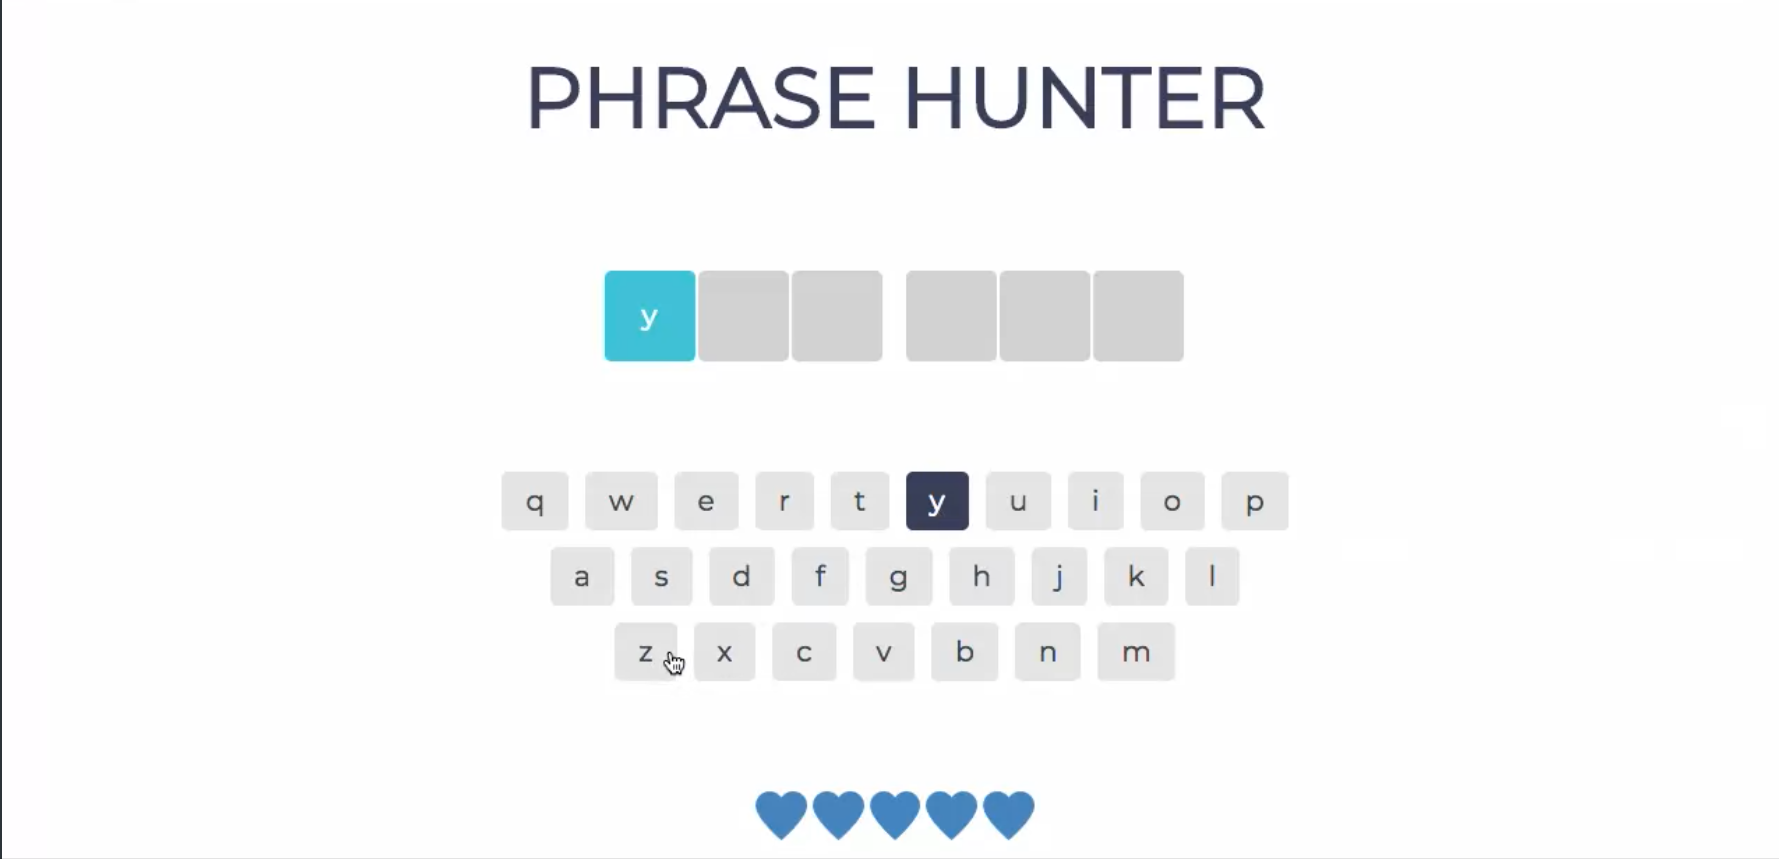
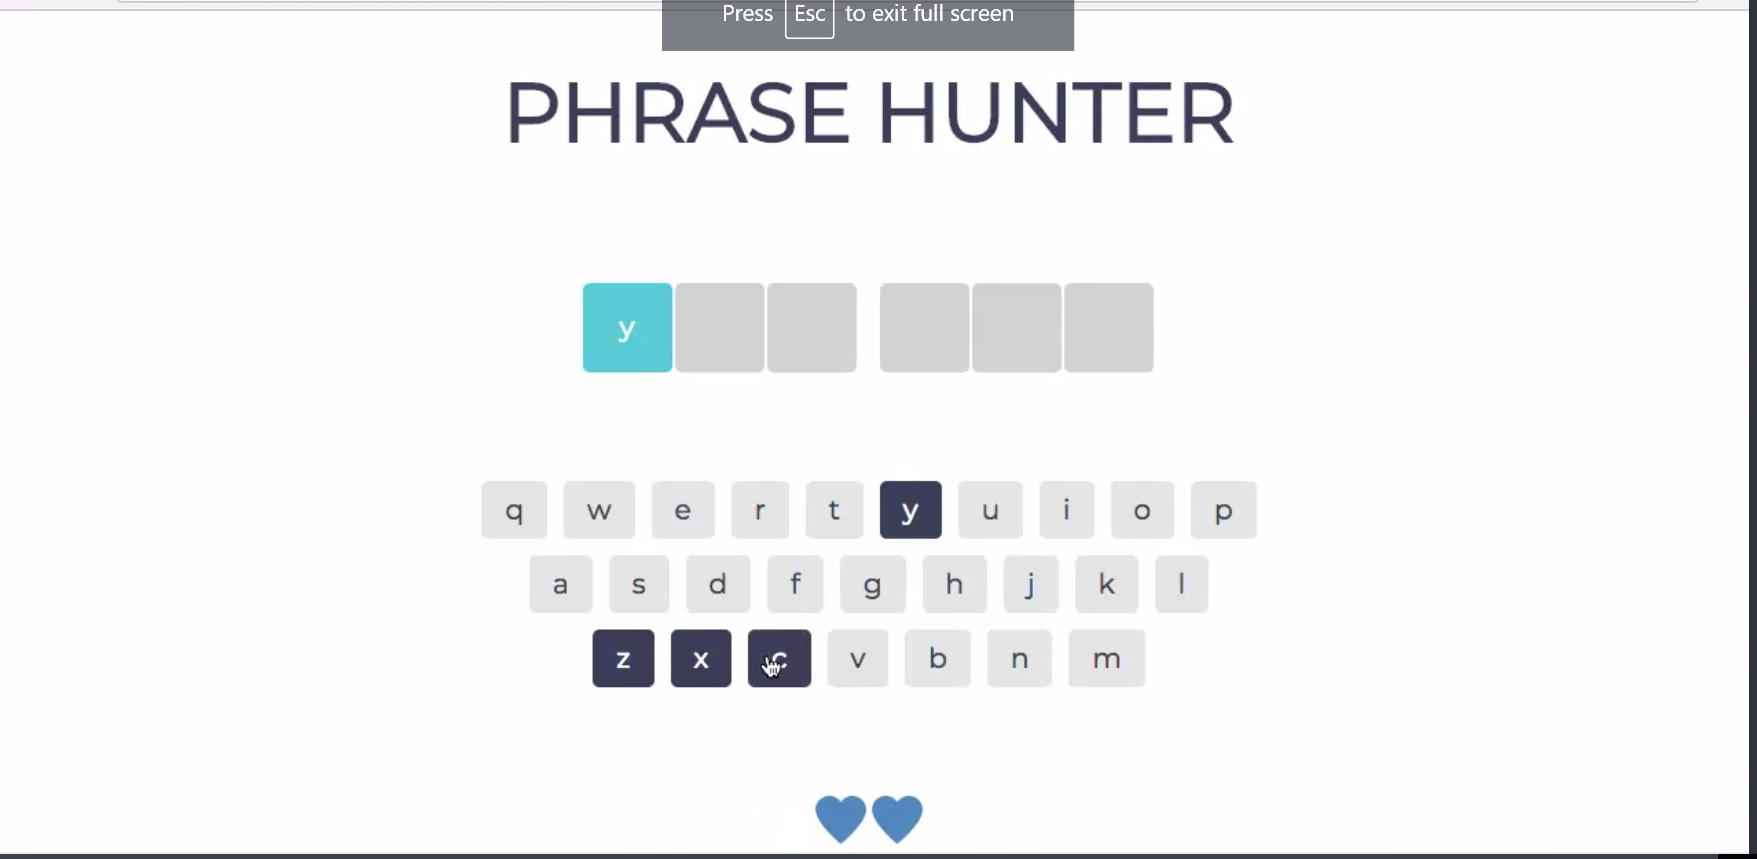
Completed Game.js and app.js.  Some refactoring.

diff --git a/js/Game.js b/js/Game.js
@@ -1,3 +1,86 @@
-/* Treehouse FSJS Techdegree
- * Project 4 - OOP Game App
- * Game.js */
+// The class should include a constructor that initializes the following properties:
+class Game {
+    constructor() {
+        // missed: used to track the number of missed guesses by the player. The initial value is 0, since no guesses have been made at the start of the game.
+        this.missed = 0;
+        // phrases: an array of five Phrase objects to use with the game. A phrase should only include letters and spaces— no numbers, punctuation or other special characters.
+        this.phrases = ['how are you', 'what is that'];
+        // activePhrase: This is the Phrase object that’s currently in play. The initial value is null. Within the startGame() method, this property will be set to the Phrase object returned from a call to the getRandomPhrase() method.
+        this.activePhrase = null;
+    }
+
+    // startGame(): hides the start screen overlay, calls the getRandomPhrase() method, and sets the activePhrase property with the chosen phrase. It also adds that phrase to the board by calling the addPhraseToDisplay() method on the active Phrase object.
+    startGame() {
+        document.querySelector('#overlay').classList.add('hide');
+        this.activePhrase = new Phrase(this.getRandomPhrase());
+        this.activePhrase.addPhraseToDisplay();
+    }
+
+    // getRandomPhrase(): this method randomly retrieves one of the phrases stored in the phrases array and returns it.
+    getRandomPhrase() {
+        const randNum = Math.floor(Math.random() * this.phrases.length);
+        return this.phrases[randNum];
+    }
+
+    // handleInteraction(): this method controls most of the game logic. It checks to see if the button clicked by the player matches a letter in the phrase, and then directs the game based on a correct or incorrect guess. This method should:
+    handleInteraction(selectedKey) {
+        // Placeholder for selected letter
+        // const selectedKey = document.querySelectorAll('.key')[8];
+
+        // If the phrase includes the guessed letter, add the chosen CSS class to the selected letter's keyboard button, call the showMatchedLetter() method on the phrase, and then call the checkForWin() method. If the player has won the game, also call the gameOver() method.
+        if (this.activePhrase.checkLetter(selectedKey.textContent).length) {
+            console.log('match');
+            // Disable the selected letter’s onscreen keyboard button.
+            selectedKey.classList.add('chosen');
+            this.activePhrase.showMatchedLetter(selectedKey.textContent);
+            // Call gameOver() with a true parameter if checkForWin() returns true
+            if (this.checkForWin()) this.gameOver(true);
+            
+        // If the phrase does not include the guessed letter, add the wrong CSS class to the selected letter's keyboard button and call the removeLife() method.
+        } else {
+            console.log('no match');
+            selectedKey.classList.add('wrong');
+            this.removeLife();
+        }
+    }
+    
+    // removeLife(): this method removes a life from the scoreboard, by replacing one of the liveHeart.png images with a lostHeart.png image (found in the images folder) and increments the missed property. If the player has five missed guesses (i.e they're out of lives), then end the game by calling the gameOver() method.
+    removeLife() {
+        // Heart DOM images
+        const selectHearts = document.querySelectorAll('.tries');
+        // Last DOM heart
+        const selectedHeart = selectHearts[selectHearts.length - 1];
+
+        // Remove tries class from last heart
+        selectedHeart.classList.remove('tries');
+        // Increment missed by 1
+        this.missed++;
+        // Replace last heart image with lost heart image
+        selectedHeart.firstChild.src = 'images/lostHeart.png';
+
+        // Check for if out of lives
+        if (this.missed === 5) this.gameOver(false);
+    }
+
+    // checkForWin(): this method checks to see if the player has revealed all of the letters in the active phrase.
+    checkForWin() {
+        // Filter out all shown letters
+        const selectHiddenLetters = Array.from(this.activePhrase.lettersDOM).filter(match => !match.classList.contains('show'));
+        
+        // Return true if there are no remaining hidden letters, otherwise return false
+        return (!selectHiddenLetters.length) ? true : false;
+    }
+
+    // gameOver(): this method displays the original start screen overlay, and depending on the outcome of the game, updates the overlay h1 element with a friendly win or loss message, and replaces the overlay’s start CSS class with either the win or lose CSS class.
+    gameOver(bool) {
+        // Show overlay
+        document.querySelector('#overlay').classList.remove('hide');
+
+        // Gameover DOM element
+        const selectH1 = document.querySelector('#game-over-message');
+
+        // Update the end game screen with the appropriate win/loss message
+        (bool) ? selectH1.textContent = 'YOU WIN!': selectH1.textContent = 'YOU LOSE.  Please try again.';
+    }
+}
+

diff --git a/js/Phrase.js b/js/Phrase.js
@@ -15,7 +15,8 @@
             // Create a list element
             const li = document.createElement('li');
             // Give space and non-space characters appropriate classes
-            (char === ' ') ? li.classList.add('space') : li.classList.add('hide', 'letter', char);
+            // (char === ' ') ? li.classList.add('space') : li.classList.add('hide', 'letter', char);
+            (char === ' ') ? li.classList.add('space') : li.classList.add('letter', char);
             // This should be refactored out to prevent cheating
             li.textContent = char;
             // Append to DOM phrase
@@ -24,21 +25,22 @@
     }
 
     // Checks if chosen letter is in the phrase
-    checkletter() {
+    checkLetter(targetLetter) {
         // PLACEHOLDER: Selected letter
-        const selectedLetter = 'o';
+        // const selectedLetter = 'o';
 
         // Array.from() learned from https://developer.mozilla.org/en-US/docs/Web/JavaScript/Reference/Global_Objects/Array/from
         // Discovered by: https://stackoverflow.com/questions/32765157/filter-or-map-nodelists-in-es6
         // Returns matches
-        return Array.from(this.lettersDOM).filter(match => match.textContent === selectedLetter);
+        // return Array.from(this.lettersDOM).filter(match => match.textContent === selectedLetter);
+        return Array.from(this.lettersDOM).filter(match => match.textContent === targetLetter);
     }
         
     // Reveals matched letter(s) on the board
-    showMatchedLetter() {
+    showMatchedLetter(targetLetter) {
         // Go through matching letters then swap hide class with show
-        this.checkletter().forEach(letter => {
-            letter.classList.remove('hide');
+        this.checkLetter(targetLetter).forEach(letter => {
+            // letter.classList.remove('hide');
             letter.classList.add('show');
         });
     }

diff --git a/js/app.js b/js/app.js
@@ -1,7 +1,12 @@
-/* Treehouse FSJS Techdegree
- * Project 4 - OOP Game App
- * app.js */
+//  Create a new instance of the Game class and add event listeners for the start button and onscreen keyboard buttons:
+const game = new Game();
 
- const phrase = new Phrase('how are YOU');
+    // Add a click event listener to the "Start Game" button which creates a new Game object and starts the game by calling the startGame() method.
+    document.querySelector('#btn__reset').addEventListener('click', () => game.startGame());
 
- phrase.addPhraseToDisplay();
+    // Add click event listeners to each of the onscreen keyboard buttons, so that clicking a button calls the handleInteraction() method on the Game object. Event delegation can also be used in order to avoid having to add an event listener to each individual keyboard button. Clicking the space between and around the onscreen keyboard buttons should not result in the handleInteraction() method being called.
+    const selectKeys = document.querySelectorAll('.key');
+
+    selectKeys.forEach(key => key.addEventListener('click', (e) => {
+        game.handleInteraction(e.target);
+    }));

diff --git a/index.html b/index.html
@@ -12,11 +12,11 @@
 
 	<body>
 		<div class="main-container">
-			<!-- <div id="overlay" class="start">
+			<div id="overlay" class="start">
 				<h2 class="title">Phrase Hunter</h2>
 				<h1 id="game-over-message"></h1>
 				<button id="btn__reset">Start Game</button>
-			</div> -->
+			</div>
 
 			<div id="banner" class="section">
 				<h2 class="header">Phrase Hunter</h2>

diff --git a/css/styles.css b/css/styles.css
@@ -107,7 +107,9 @@ button {
   width: 15px;
 }
 
-
+.hide {
+  visibility: hidden;
+}
 
 .show {
   color: #fff;
